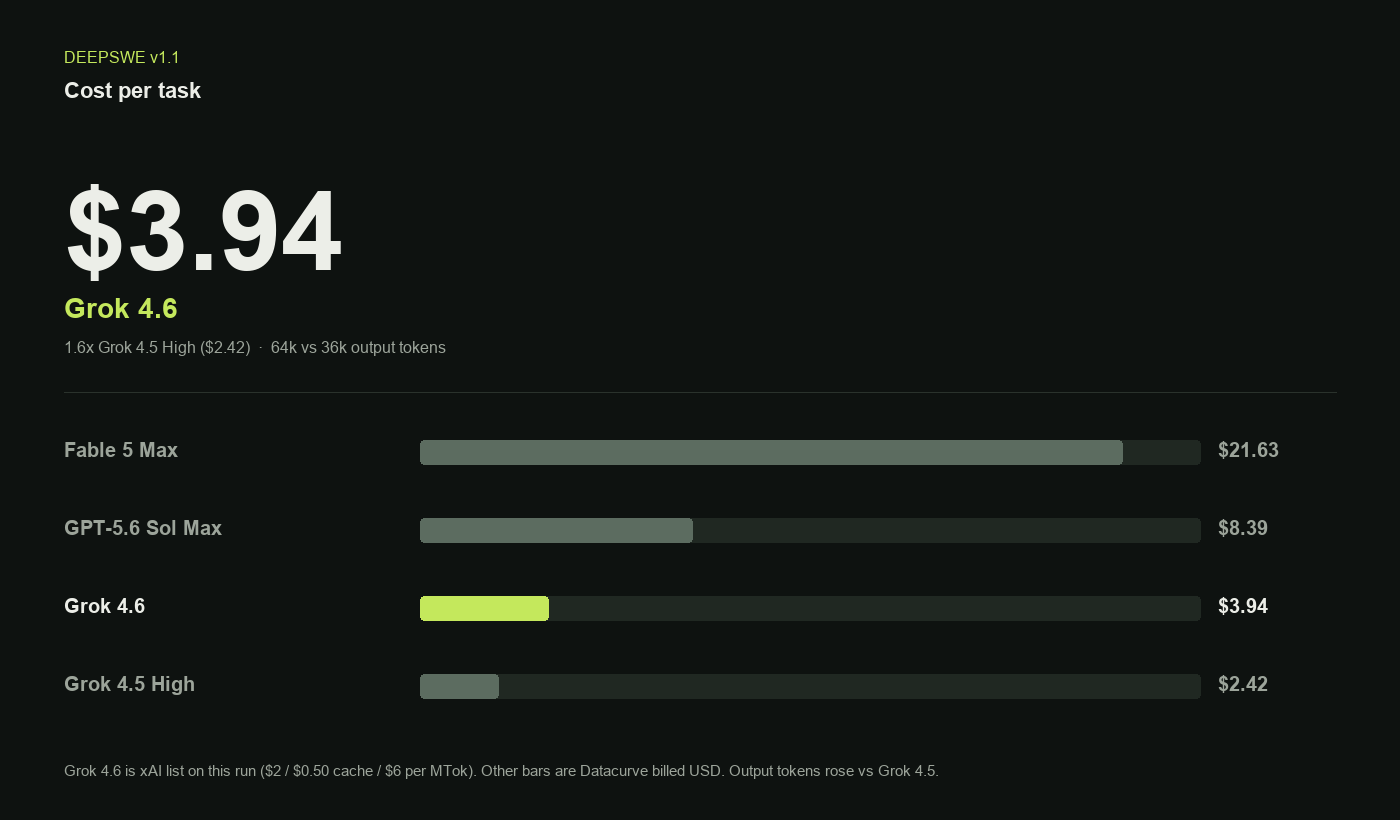
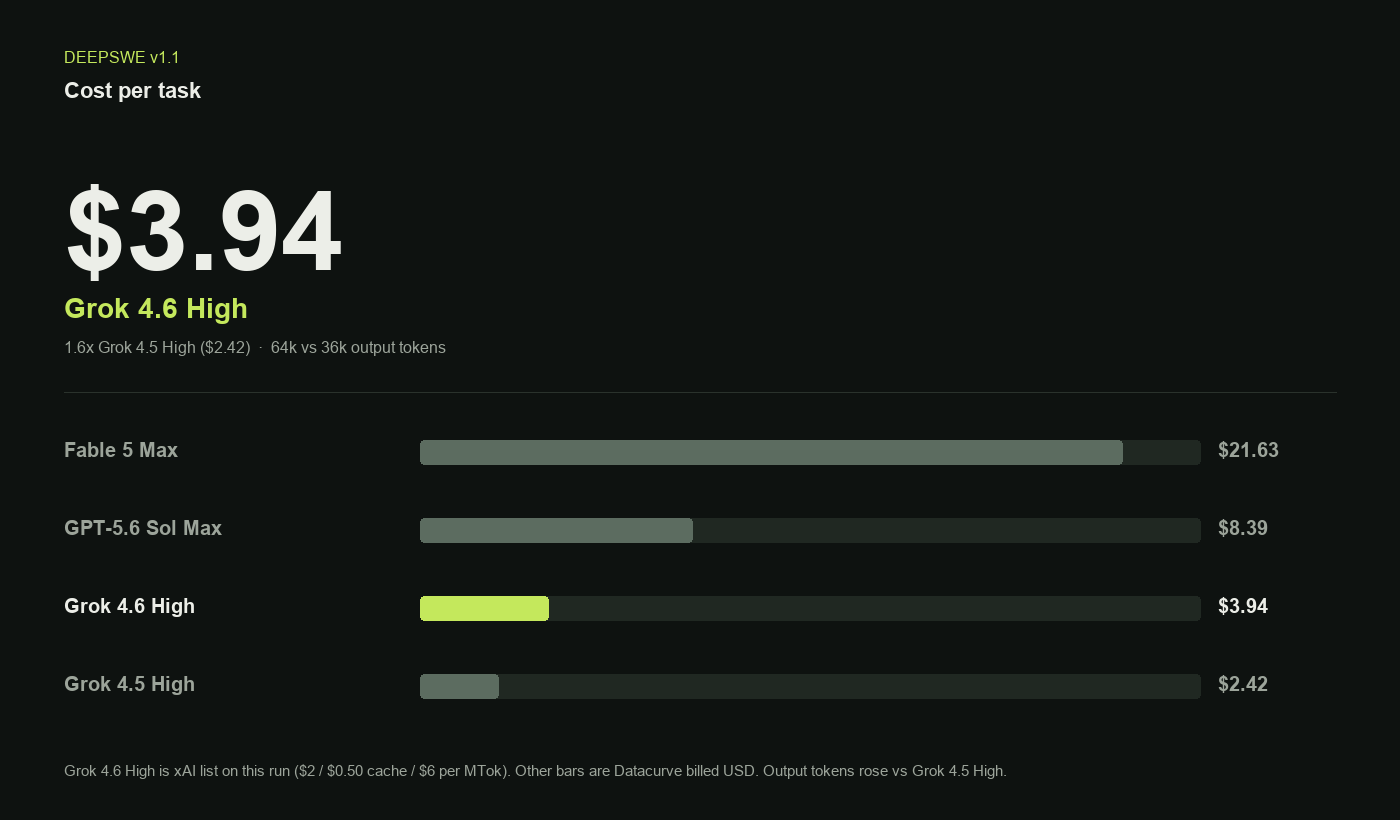
Label DeepSWE cards Grok 4.6 High to match the xAI effort level.

Changed region(s): [[0.0921, 0.9146, 0.7064, 0.9451], [0.1229, 0.3659, 0.1843, 0.3963], [0.0921, 0.7317, 0.1536, 0.7622]]

diff --git a/draw_card.py b/draw_card.py
@@ -21,6 +21,7 @@ OTHER = (92, 108, 96)
 IN_USD = 2.00
 CACHE_USD = 0.50
 OUT_USD = 6.00
+MODEL = "Grok 4.6 High"
 
 
 def font(size: int, bold: bool = False) -> ImageFont.FreeTypeFont:
@@ -120,7 +121,7 @@ def draw_pass(data: dict) -> None:
     d = ImageDraw.Draw(img)
     paint_header(d, "DEEPSWE v1.1", "Independent re-run")
     d.text((64, 168), fmt_pct(ours), font=font(112, bold=True), fill=INK)
-    d.text((64, 292), "Grok 4.6", font=font(28, bold=True), fill=LIME)
+    d.text((64, 292), MODEL, font=font(28, bold=True), fill=LIME)
     n_note = f"{n_pass}/{n} pass" + ("" if n == universe else f"  ·  {n} of {universe} graded")
     d.text((64, 338), n_note, font=font(16), fill=MUTED)
     d.line((64, 392, W - 64, 392), fill=RULE, width=1)
@@ -129,7 +130,7 @@ def draw_pass(data: dict) -> None:
         [
             ("GPT-5.6 Sol Max", 0.73, False),
             ("Fable 5 Max", 0.70, False),
-            ("Grok 4.6", ours, True),
+            (MODEL, ours, True),
             ("Grok 4.5 High", 0.54, False),
         ],
         fmt_pct,
@@ -137,9 +138,9 @@ def draw_pass(data: dict) -> None:
     )
     d.text(
         (64, H - 58),
-        "Grok 4.6 is this independent Pier/Docker run. "
+        f"{MODEL} is this independent Pier/Docker run. "
         "Other bars are Datacurve board scores (mini-swe-agent). "
-        "xAI card lists Grok 4.6 at 65.9%.",
+        "xAI card lists Grok 4.6 High at 65.9%.",
         font=font(15),
         fill=MUTED,
     )
@@ -157,7 +158,7 @@ def draw_cost(data: dict, cost: dict) -> None:
     d = ImageDraw.Draw(img)
     paint_header(d, "DEEPSWE v1.1", "Cost per task")
     d.text((64, 168), fmt_usd(ours), font=font(112, bold=True), fill=INK)
-    d.text((64, 292), "Grok 4.6", font=font(28, bold=True), fill=LIME)
+    d.text((64, 292), MODEL, font=font(28, bold=True), fill=LIME)
     d.text(
         (64, 338),
         f"{ratio:.1f}x Grok 4.5 High ({fmt_usd(baseline)})  ·  {out_ours:.0f}k vs 36k output tokens",
@@ -170,7 +171,7 @@ def draw_cost(data: dict, cost: dict) -> None:
         [
             ("Fable 5 Max", 21.63, False),
             ("GPT-5.6 Sol Max", 8.39, False),
-            ("Grok 4.6", ours, True),
+            (MODEL, ours, True),
             ("Grok 4.5 High", 2.42, False),
         ],
         fmt_usd,
@@ -178,8 +179,8 @@ def draw_cost(data: dict, cost: dict) -> None:
     )
     d.text(
         (64, H - 58),
-        "Grok 4.6 is xAI list on this run ($2 / $0.50 cache / $6 per MTok). "
-        "Other bars are Datacurve billed USD. Output tokens rose vs Grok 4.5.",
+        f"{MODEL} is xAI list on this run ($2 / $0.50 cache / $6 per MTok). "
+        "Other bars are Datacurve billed USD. Output tokens rose vs Grok 4.5 High.",
         font=font(15),
         fill=MUTED,
     )
@@ -190,6 +191,7 @@ def draw_cost(data: dict, cost: dict) -> None:
 
 def main() -> None:
     data = json.loads(JSON_PATH.read_text())
+    data["model"] = MODEL
     cost = our_cost(data)
     data["cost"] = cost
     JSON_PATH.write_text(json.dumps(data, indent=2) + "\n")

diff --git a/README.md b/README.md
@@ -1,8 +1,8 @@
-# Grok 4.6 independent bench
+# Grok 4.6 High independent bench
 
-Independent DeepSWE v1.1 and Terminal-Bench v3.0 runs of **Grok 4.6**, checked against the [xAI 2026-08-12 card](https://x.ai/news/grok-4-6).
+Independent DeepSWE v1.1 and Terminal-Bench v3.0 runs of **Grok 4.6 High**, checked against the [xAI 2026-08-12 card](https://x.ai/news/grok-4-6). High is the effort level on that card; it is the only level used here.
 
-![DeepSWE v1.1 — Grok 4.6](deepswe-v1.1.png)
+![DeepSWE v1.1 — Grok 4.6 High](deepswe-v1.1.png)
 
 ![DeepSWE v1.1 — cost per task](deepswe-v1.1-cost.png)
 
@@ -16,10 +16,10 @@ Pass rate is not a cost win. At xAI list ($2 / $0.50 cache / $6 per MTok) this r
 | --- | ---: | ---: |
 | GPT-5.6 Sol Max | 73% | $8.39 |
 | Fable 5 Max | 70% | $21.63 |
-| Grok 4.6 (this run) | 65.5% | $3.94 (list, this run) |
+| Grok 4.6 High (this run) | 65.5% | $3.94 (list, this run) |
 | Grok 4.5 High | 54% | $2.42 |
 
-Comparator pass and USD rows are Datacurve board scores. Grok 4.6 is this Pier/Docker run on the 113-task set.
+Comparator pass and USD rows are Datacurve board scores. Grok 4.6 High is this Pier/Docker run on the 113-task set.
 
 ## Terminal-Bench v3.0
 
